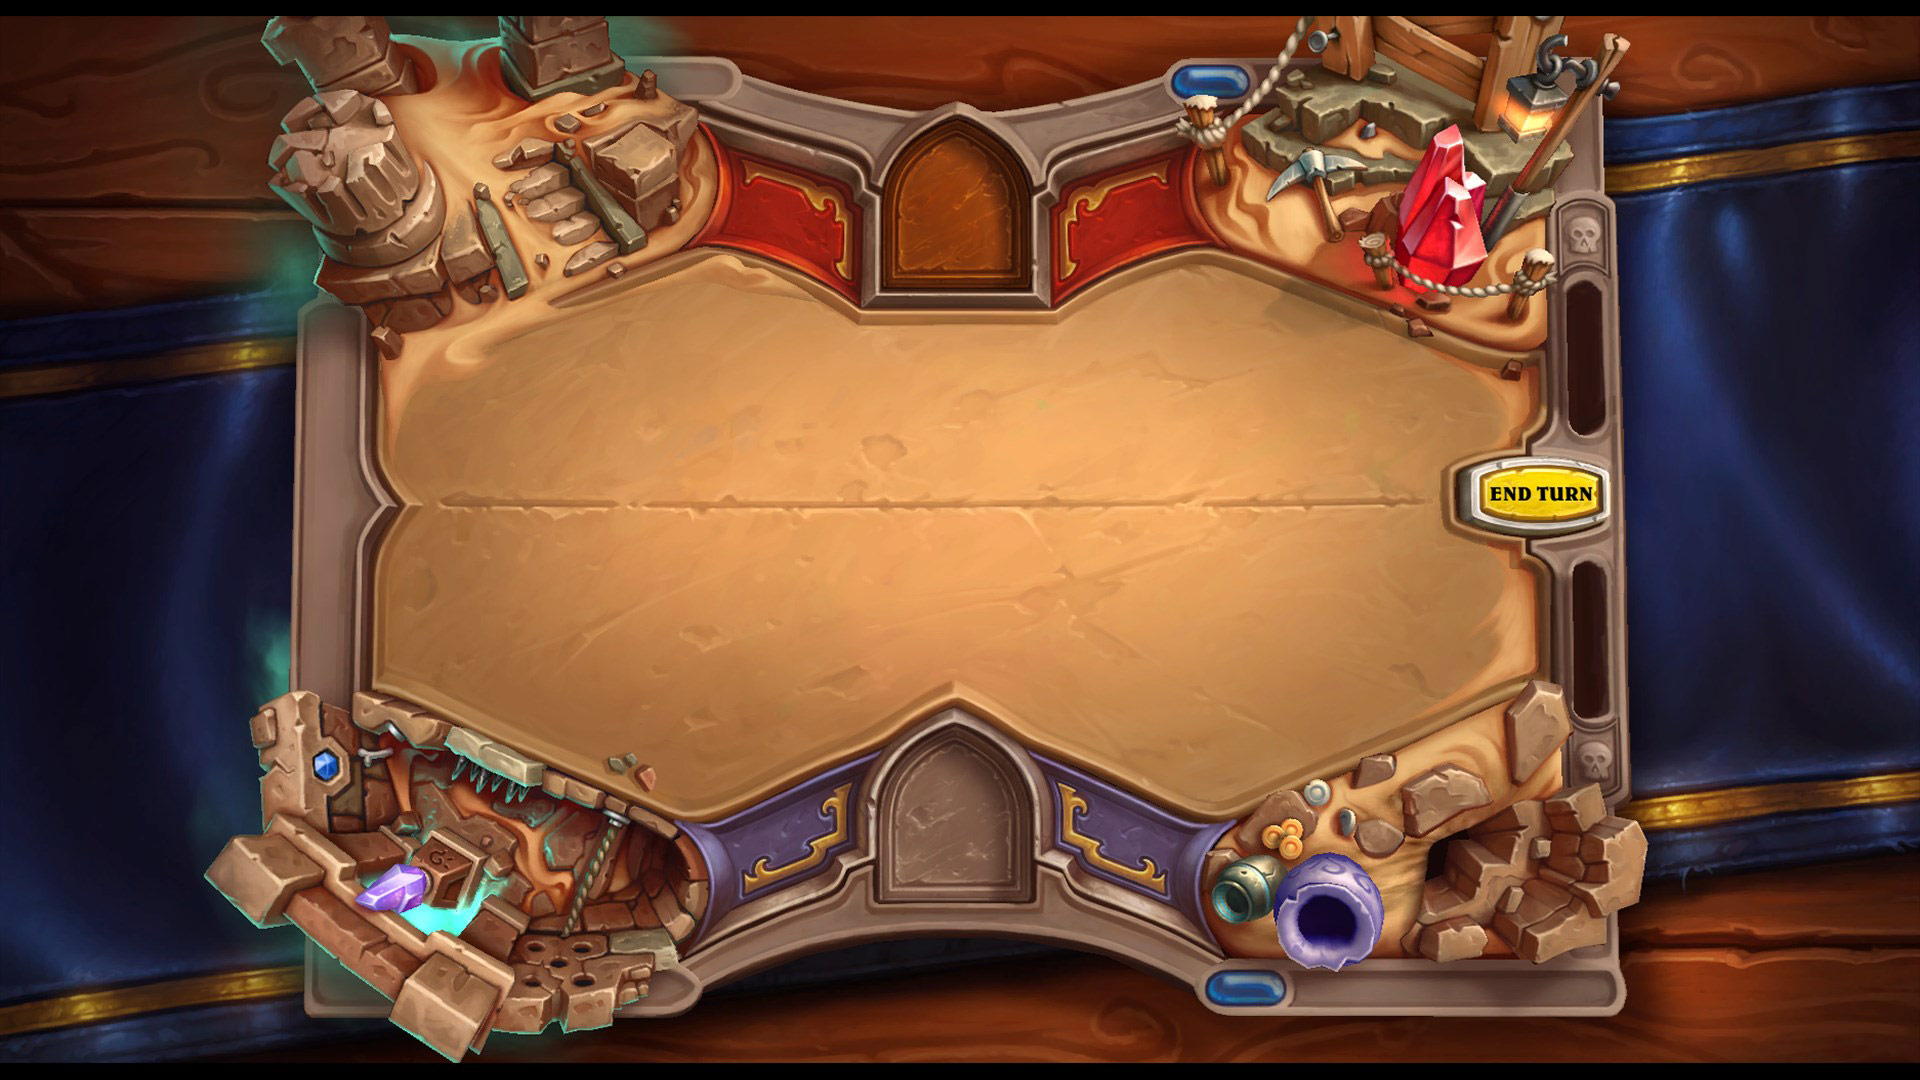
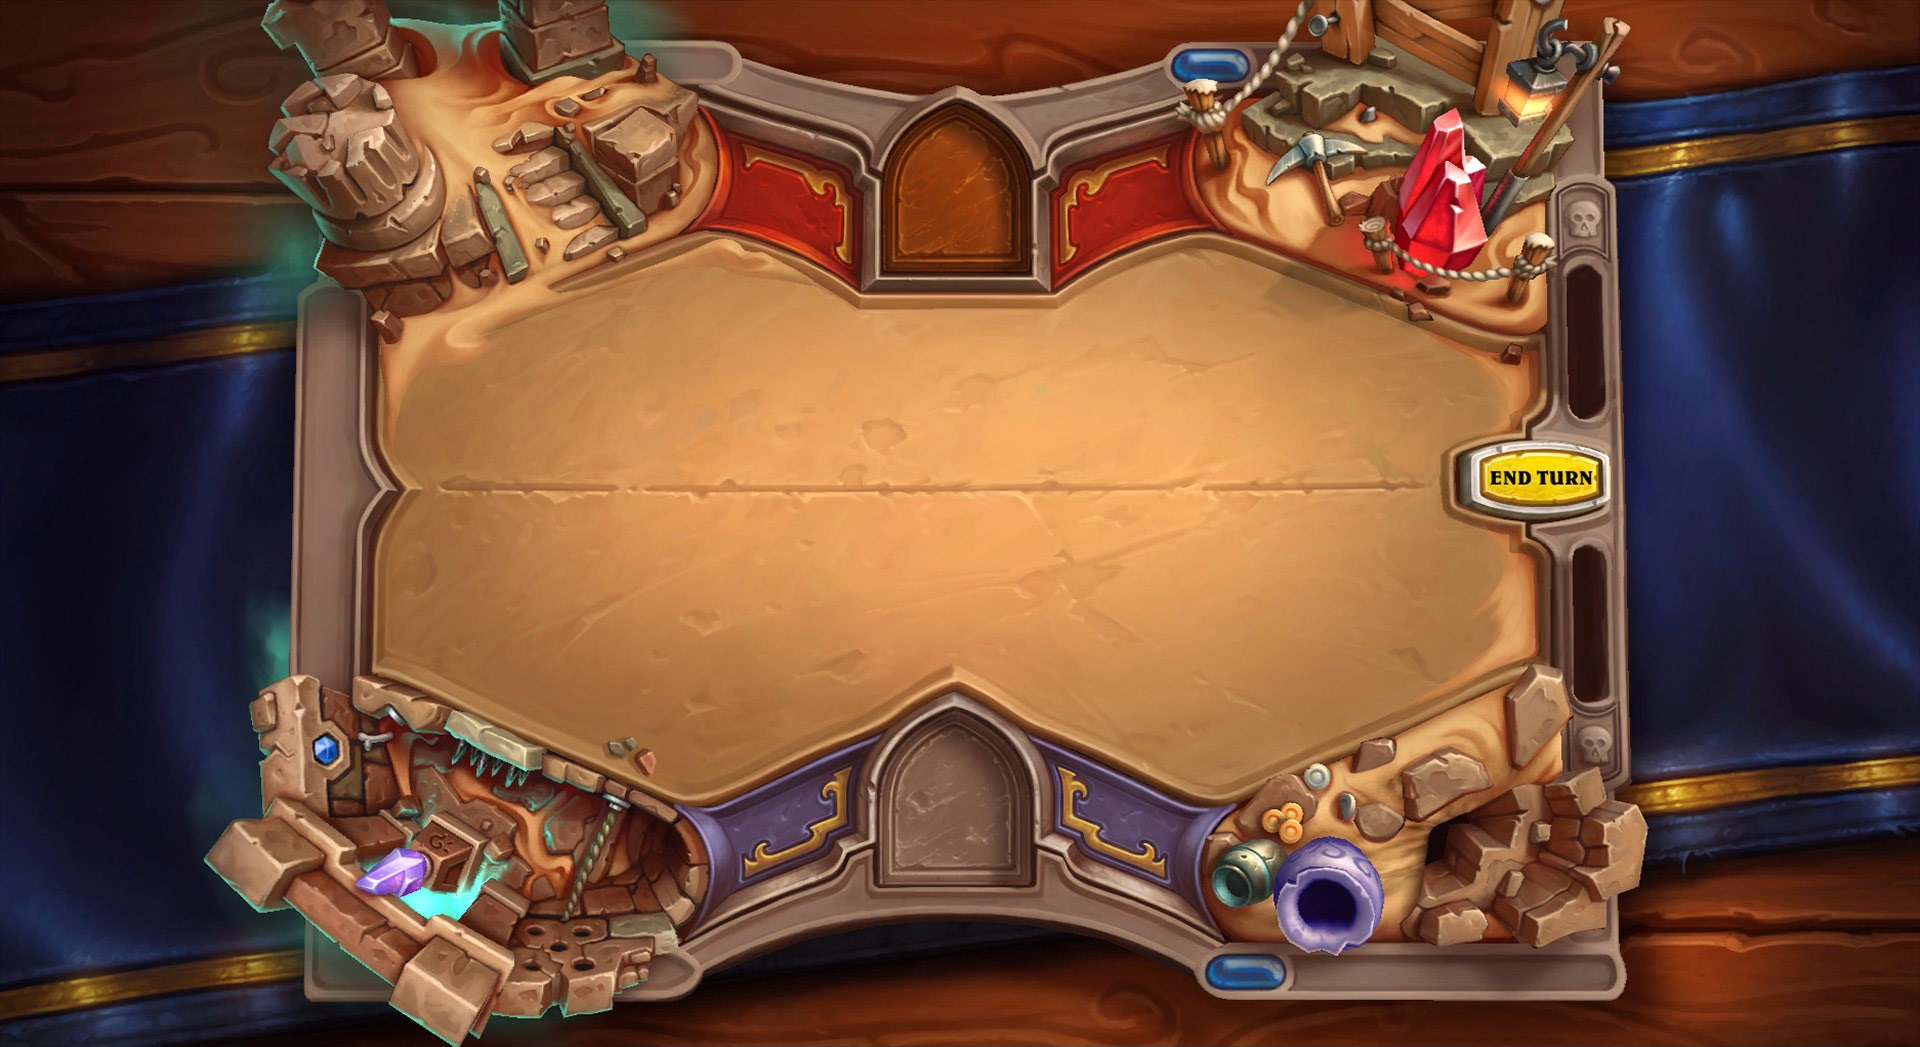
fix

diff --git a/R5.A.05.alt-main_HearthStone/Project/Engine/templates/arena1.html b/R5.A.05.alt-main_HearthStone/Project/Engine/templates/arena1.html
@@ -14,13 +14,20 @@
     <script src="https://cdn.tailwindcss.com"></script>
 </head>
 
-<body class=" flex justify-center items-center h-screen">
-    <button id="fetchCharactersForArena" class="absolute top-0 left-0 m-[1vh] h-[2vh] w-[5vw] text-[1vh]">Start Game</button>
-    <section class="relative grid grid-rows-2 h-[50vh] w-[60vw]">
-        <div class="absolute bg-yellow-500 h-[5vh] w-[11vw] right-[-5vw] top-[45%]"><button id="changeTurnButton" class="w-full h-full text-[2vh] p-[1%]">Change Turn</button></div>
-        
+<body class=" flex justify-center items-center h-[94vh]">
+    <img src="../static/plateau_test.jpg" alt="" class="absolute top-0 left-0 h-screen w-screen object-fil">
+    <button id="fetchCharactersForArena" class="absolute top-0 left-0 m-[1vh] h-[2vh] w-[5vw] text-[1vh]">Start
+        Game</button>
+    <section class="relative grid grid-rows-2 h-[35vh] w-[60vw]">
+        <div class="absolute bg-yellow-500 h-[5vh] w-[11vw] right-[-5vw] top-[45%]"><button id="changeTurnButton"
+                class="w-full h-full text-[2vh] p-[1%]">Change Turn</button></div>
+        <p id="arrowEnemy">➔</p>
+        <p id="enemyTeamTxt">ÉQUIPE ADVERSE</p>
 
-        <div id="ennemy_trey" class="bg-red-500 w-full flex justify-center gap-[1%] p-[1%] flex-nowrap">
+        <p id="arrowFriend">➔</p>
+        <p id="myTeamTxt">Mon ÉQUIPE</p>
+        <div id="ennemy_trey" class="bg-red-500 opacity-50 w-full flex justify-center gap-[1%] p-[1%] flex-nowrap"
+            ondrop="drop(event)" ondragover="allowDrop(event)">
             <!--<div class="bg-blue-500 h-full w-[7vw]"></div>
              <div class="bg-blue-500 h-full w-[7vw]"></div>
             <div class="bg-blue-500 h-full w-[7vw]"></div>
@@ -30,7 +37,8 @@
             <div class="bg-blue-500 h-full w-[7vw]"></div>
             <div class="bg-blue-500 h-full w-[7vw]"></div> -->
         </div>
-        <div id="ally_trey" class="bg-green-500 w-full flex justify-center gap-[1%] p-[1%] flex-nowrap">
+        <div id="ally_trey" class="bg-green-500 opacity-50 w-full flex justify-center gap-[1%] p-[1%] flex-nowrap"
+            ondrop="drop(event)" ondragover="allowDrop(event)">
             <!-- <div class="bg-blue-500 h-full w-[7vw]"></div>
             <div class="bg-blue-500 h-full w-[7vw]"></div>
             <div class="bg-blue-500 h-full w-[7vw]"></div>

diff --git a/R5.A.05.alt-main_HearthStone/Project/Engine/static/styleArenaTest.css b/R5.A.05.alt-main_HearthStone/Project/Engine/static/styleArenaTest.css
@@ -1,7 +1,7 @@
 body {
     font-family: 'Arial', sans-serif;
     background-image: url("../static/plateau_test.jpg");
-    background-size: cover;
+    width: 100vw;
     background-repeat: no-repeat;
     color: white;
     margin: 0;
@@ -18,19 +18,6 @@ h1 {
     max-width: 800px;
     margin: 0 auto;
     padding: 20px;
-}
-
-button {
-    background-color: #3498db;
-    color: white;
-    padding: 10px 20px;
-    border: none;
-    border-radius: 5px;
-    cursor: pointer;
-}
-
-button:hover {
-    background-color: #2980b9;
 }
 
 form {
@@ -124,7 +111,7 @@ form {
 }
 
 .card img {
-    width: 80px;
+    width: 80%;
     height: fit-content;
     border-radius: 5px;
 }
@@ -135,8 +122,6 @@ form {
 
 .card {
     position: relative;
-    width: 130px;
-    height: fit-content;
     color: #fff;
     transition: 0.5s;
     cursor: pointer;
@@ -195,42 +180,41 @@ form {
     position: relative;
     padding: 10px;
     z-index: 10;
-    text-align: center;
     font-weight: 600;
+    font-size: 100%;
 }
 
 #enemyTeamTxt{
     position: absolute;
-    top: 430px;
-    left:420px;
+    top: 14vh;
+    left: 2vw;
     font-family: "LHF Uncial Caps";
     color: rgb(255, 0, 0);
 }
 #arrowEnemy{
     position: absolute;
-    top: 430px;
-    left: 380px;
+    top: 14vh;
+    left: 0vw;
     font-family: "LHF Uncial Caps";
     color: rgb(255, 0, 0);
 }
 
 #myTeamTxt{
     position: absolute;
-    top: 530px;
-    left:420px;
+    top: 19vh;
+    left: 2vw;
     font-family: "LHF Uncial Caps";
     color: rgb(81, 255, 0);
 }
 #arrowFriend{
     position: absolute;
-    top: 530px;
-    left: 380px;
+    top: 19vh;
+    left: 0vw;
     font-family: "LHF Uncial Caps";
     color: rgb(81, 255, 0);
 }
 
 #changeTurnButton {
-    background-color: rgb(226, 226, 57);
     color: rgb(0, 0, 0);
     font-weight: 600;
     font-family: "LHF Uncial Caps";

diff --git a/R5.A.05.alt-main_HearthStone/Project/Engine/static/codeArena.js b/R5.A.05.alt-main_HearthStone/Project/Engine/static/codeArena.js
@@ -51,7 +51,6 @@ document.getElementById('fetchCharactersForArena').addEventListener('click', fun
                             Speed: ${characterInfo.speed}
                         </div>
                     </div>`;
-
                     if (characterInfo.teamId == 1) {
                         characterTablePlayer.appendChild(characterElement);
                     } else {
@@ -66,6 +65,7 @@ document.getElementById('fetchCharactersForArena').addEventListener('click', fun
                         arrowEnemyElement.style.visibility = 'visible';
                         arrowFriendElement.style.visibility = 'hidden';
                     }
+
                 }
             }
         })
